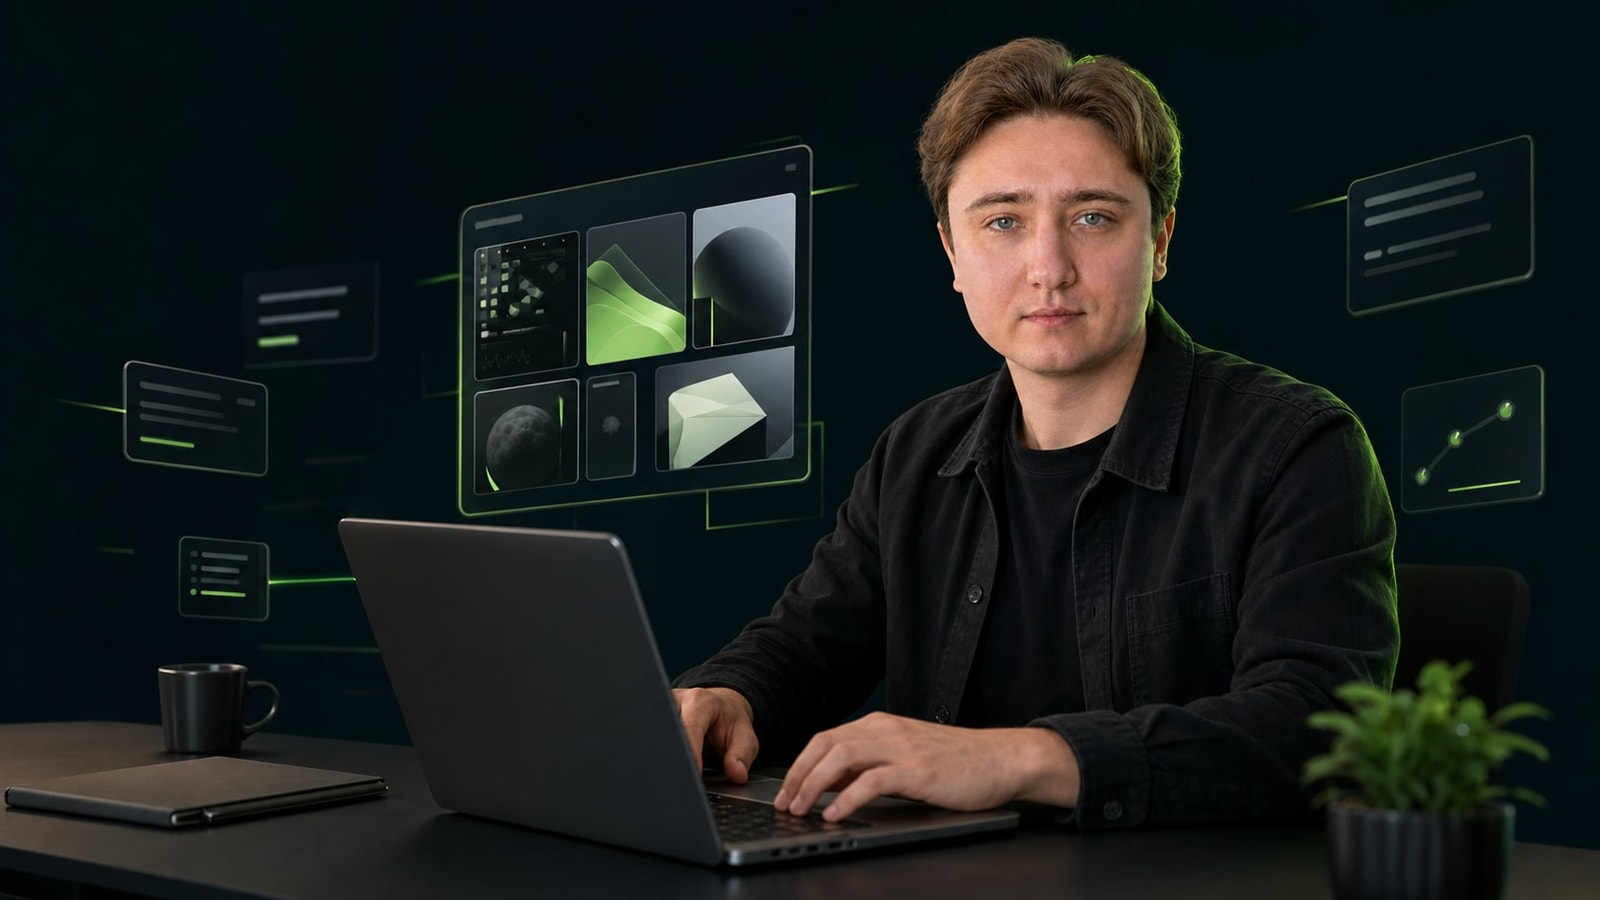
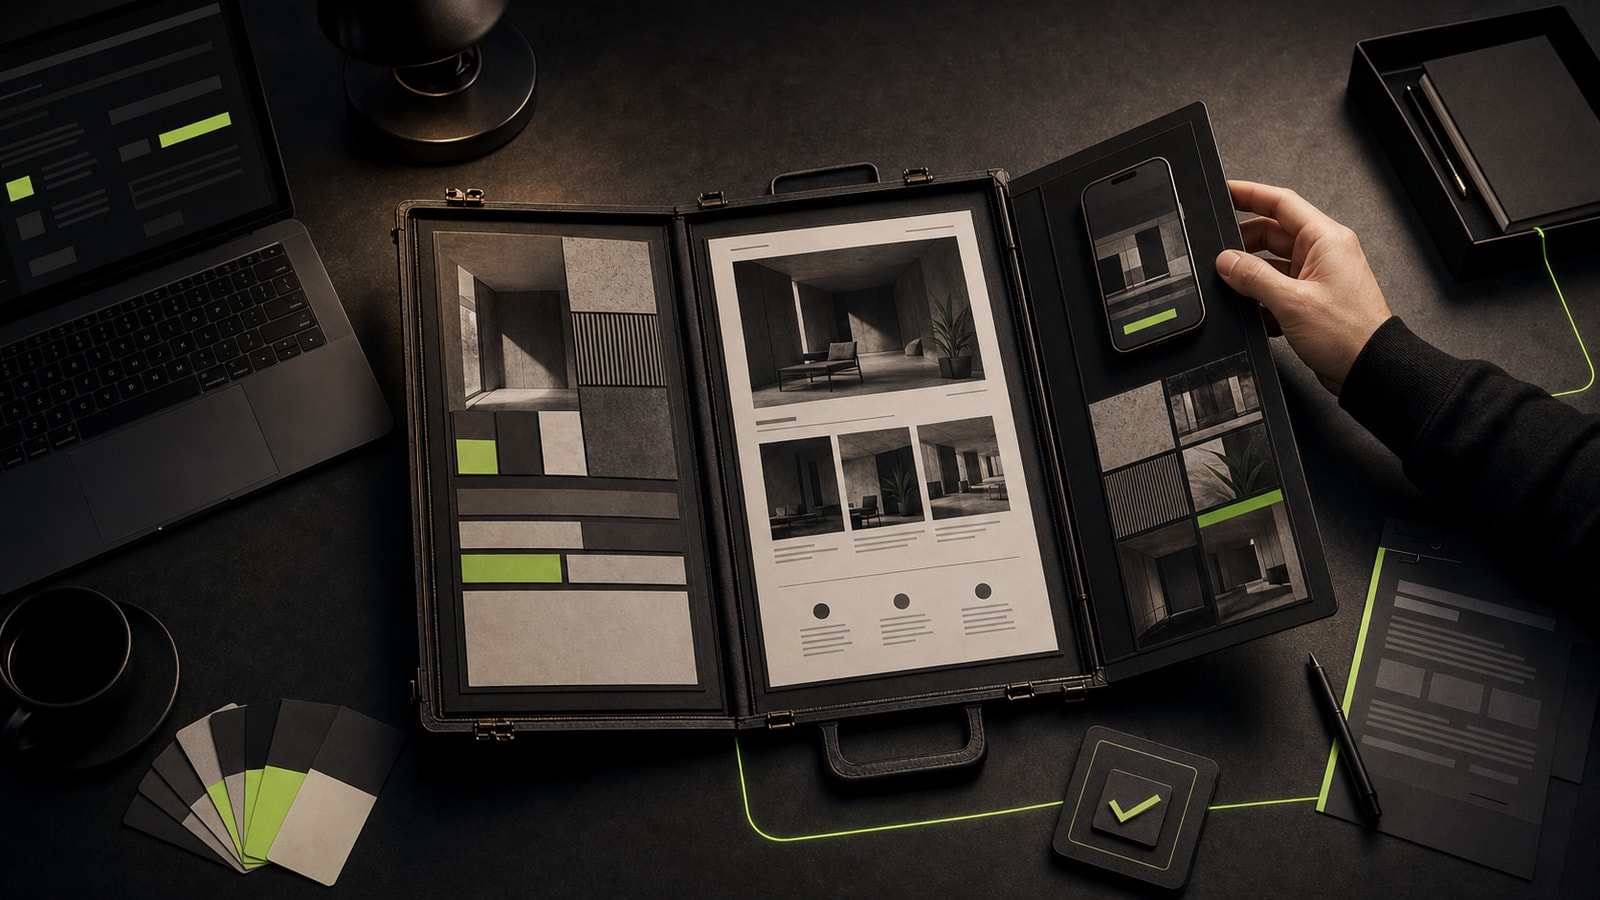
Replace Upwork guide cover

diff --git a/src/content/blog/upwork-start-2026-checklist.ts b/src/content/blog/upwork-start-2026-checklist.ts
@@ -8,12 +8,12 @@ const COVER_RU = {
   src: `/blog/${SLUG}/cover.jpg`,
   width: 1600,
   height: 900,
-  alt: "Влад Воронежцев за ноутбуком собирает систему профиля, портфолио и откликов для Upwork",
+  alt: "Открытый портфолио-кейс с сайтом, мобильным экраном и материалами проекта для старта на Upwork",
 };
 
 const COVER_EN = {
   ...COVER_RU,
-  alt: "Vlad Voronezhtsev building an Upwork profile, portfolio, and proposal system at his laptop",
+  alt: "An open portfolio case with a website, mobile screen, and project materials for starting on Upwork",
 };
 
 const ru: BlogPostLocale = {